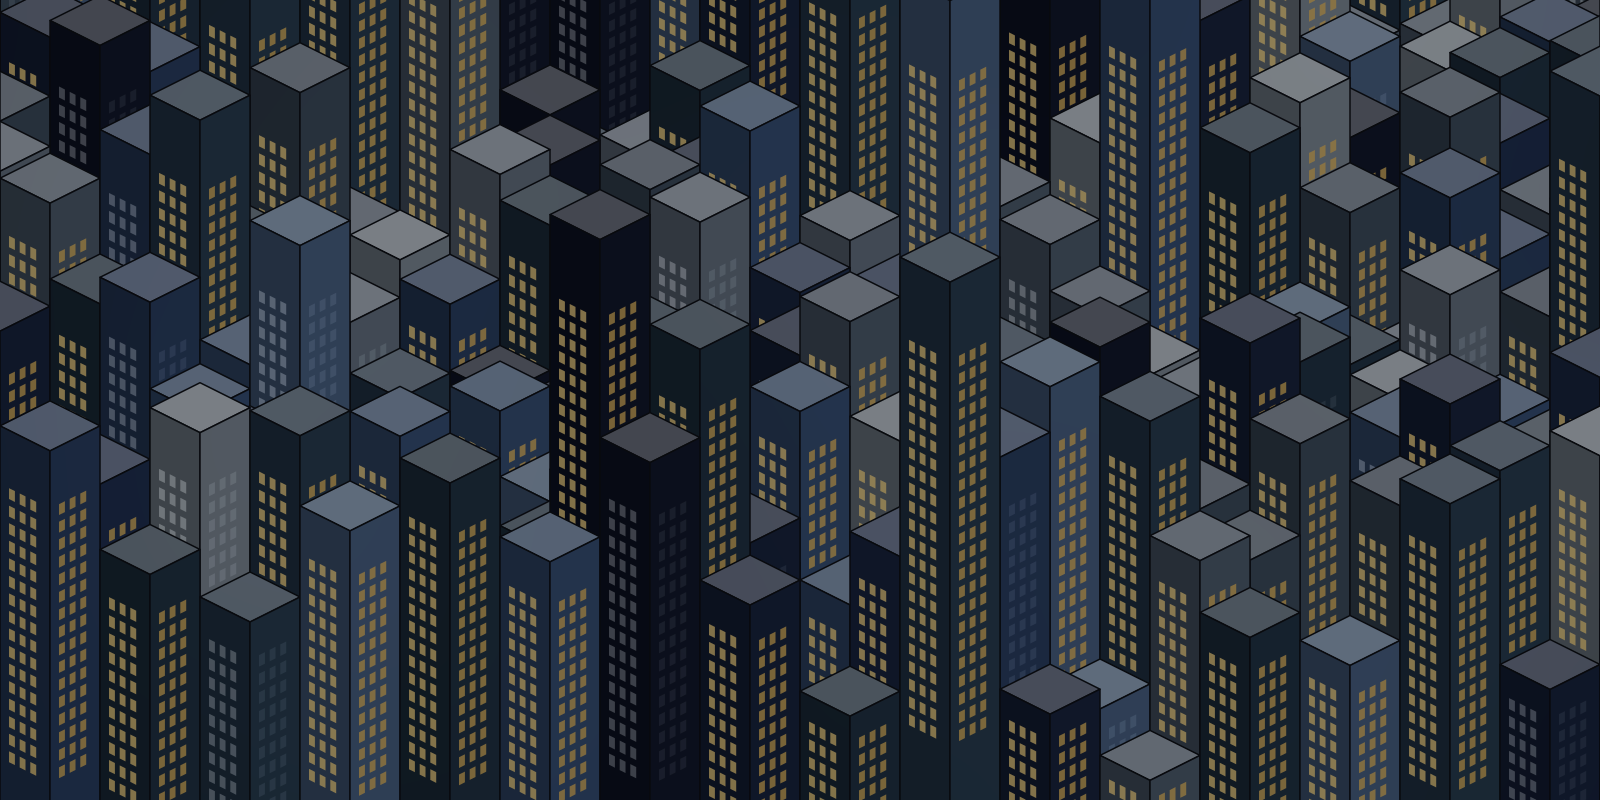
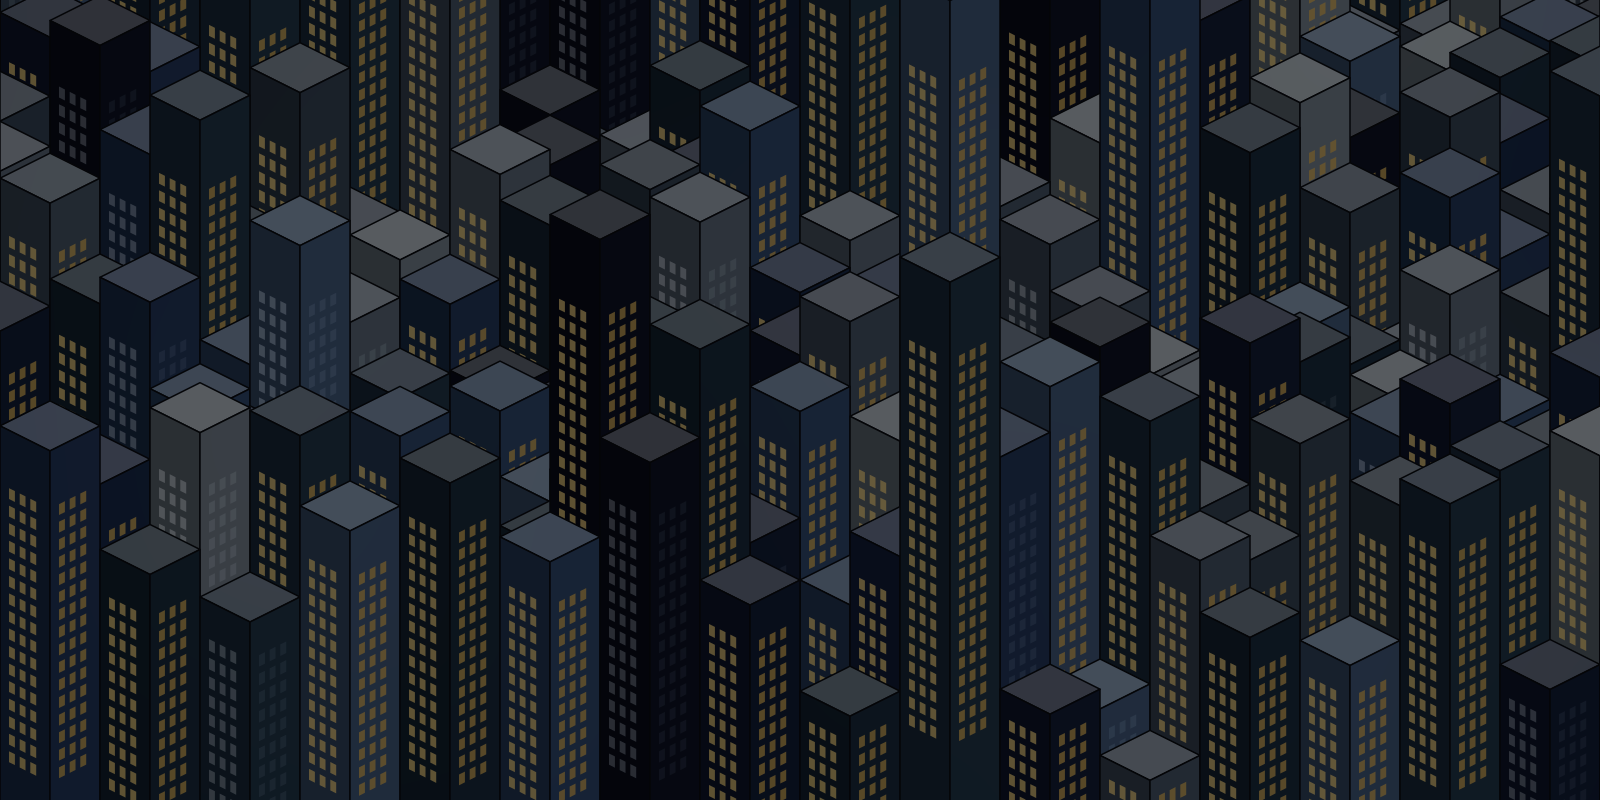
update

Changed region(s): [[0.0, 0.0, 1.0, 1.0], [0.0, 0.0938, 0.0625, 0.25], [0.0, 0.0, 0.0625, 0.0312]]

diff --git a/visual.py b/visual.py
@@ -132,6 +132,8 @@ class Animation:
             ] = simulation.drones_moves
         self.current_turn: int = 0
         self.max_turn: int = len(simulation.drones_moves) - 1
+        self.progress: int = 0
+        self.turn_duration: int = 1000
 
     def get_position(self, name: str) -> tuple[float, float]:
         for link in self.network.connections:
@@ -148,19 +150,55 @@ class Animation:
     def draw_drones(self) -> None:
         count_drawn: dict[str, int] = {}
         end_count: int = 0
-        for drone_id, name in self.drones_moves[self.current_turn]:
-            x, y = self.get_position(name)
+
+        progress_ratio: float = min(
+            self.progress / self.turn_duration, 1.0
+            ) if self.current_turn < self.max_turn else 0.0
+
+        prev_state: list[
+            tuple[int, str]
+        ] = self.drones_moves[self.current_turn]
+        next_turn: int = min(self.current_turn + 1, self.max_turn)
+        next_state: list[
+            tuple[int, str]
+        ] = self.drones_moves[next_turn]
+
+        # for drone_id, name in self.drones_moves[self.current_turn]:
+        #     x, y = self.get_position(name)
+        #     x += self.static.horizontal_scroll
+        #     y += self.static.vertical_scroll
+        #     if name == self.network.end_hub.name:
+        #         x += end_count * 20
+        #         end_count += 1
+        #     else:
+        #         if name in count_drawn:
+        #             x += count_drawn[name]
+        #             count_drawn[name] -= 20
+        #         else:
+        #             count_drawn[name] = -20
+        #     self.screen.blit(self.drone, self.drone.get_rect(center=(x, y)))
+        #     label: Any = self.font[22].render(
+        #         f"D{drone_id}", True, Color.YELLOW.rgb
+        #         )
+        #     self.screen.blit(label, (x, y - 30))
+        for (drone_id, prev_name), (_, next_name) in zip(
+            prev_state, next_state
+        ):
+            px, py = self.get_position(prev_name)
+            nx, ny = self.get_position(next_name)
+            x: float = px + (nx - px) * progress_ratio
+            y: float = py + (ny - py) * progress_ratio
             x += self.static.horizontal_scroll
             y += self.static.vertical_scroll
-            if name == self.network.end_hub.name:
-                x += end_count * 20
+            if prev_name == self.network.end_hub.name:
+                x += end_count * 25
                 end_count += 1
             else:
-                if name in count_drawn:
-                    x += count_drawn[name]
-                    count_drawn[name] -= 20
+                if prev_name in count_drawn:
+                    x += count_drawn[prev_name]
+                    count_drawn[prev_name] -= 25
                 else:
-                    count_drawn[name] = -20
+                    count_drawn[prev_name] = -25
             self.screen.blit(self.drone, self.drone.get_rect(center=(x, y)))
             label: Any = self.font[22].render(
                 f"D{drone_id}", True, Color.YELLOW.rgb
@@ -175,8 +213,8 @@ class GameMap:
         self.running: bool = True
         self.paused: bool = True
         self.clock: Any = pygame.time.Clock()
-        self.progress: int = 0
-        self.turn_duration: int = 1000
+        # self.progress: int = 0
+        # self.turn_duration: int = 1000
 
     def display_turn_and_status(self) -> None:
         status: str = " [PAUSED]" if self.paused else ""
@@ -217,17 +255,17 @@ class GameMap:
             if keys[pygame.K_UP]:
                 self.static.vertical_scroll -= 5
             if keys[pygame.K_LEFT]:
-                self.static.horizontal_scroll += 5
+                self.static.horizontal_scroll += 10
             if keys[pygame.K_RIGHT]:
-                self.static.horizontal_scroll -= 5
+                self.static.horizontal_scroll -= 10
 
             if (
                 not self.paused
                 and self.animation.current_turn < self.animation.max_turn
             ):
-                self.progress += delta_time
-                if self.progress > self.turn_duration:
-                    self.progress = 0
+                self.animation.progress += delta_time
+                if self.animation.progress > self.animation.turn_duration:
+                    self.animation.progress = 0
                     self.animation.current_turn += 1
 
             self.static.draw_static()
